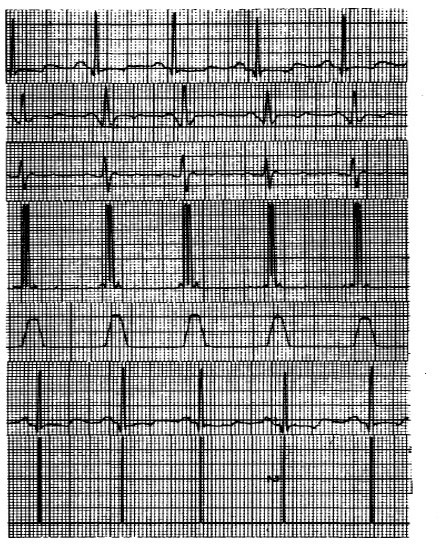
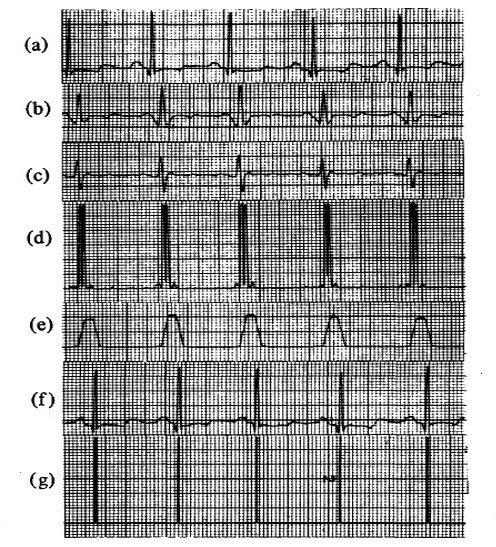
final product

diff --git a/analysisweb/angular/template/demonstrate.html b/analysisweb/angular/template/demonstrate.html
@@ -6,7 +6,7 @@
 		<div class="demon-page-detail">
 			<div class="row">
 				<div class="col-sm-12 col-md-8 col-lg-8">
-					<p>Pan & Tompkins developed this algorithm. It’s one of technique of the detection of the QRS, T and P waves which based on the slope, amplitude, and width of the signal [2]. It’s separated in two different states, processing, and decision. In processing state, the signal is passed through a block of filters to reduce noise and smoothing the signal and amplifying the QRS slope and width. In decision state, thresholds are applied to the signal in order to remove noise peaks and consider only signal peaks. To detecting the QRS, T and P waves, the algorithm has many processes such as</p>
+					<p>Pan & Tompkins developed this algorithm. It’s one of technique of the detection of the QRS, T and P waves which based on the slope, amplitude, and width of the signal. It’s separated in two different states, processing, and decision. In processing state, the signal is passed through a block of filters to reduce noise and smoothing the signal and amplifying the QRS slope and width. In decision state, thresholds are applied to the signal in order to remove noise peaks and consider only signal peaks. To detecting the QRS, T and P waves, the algorithm has many processes follow order below.</p>
 				</div>
 				<div class="col-sm-12 col-md-4 col-lg-4">
 					
@@ -15,16 +15,43 @@
 			<div class="row demon-page-order">
 				<div class="col-sm-12 col-md-4 col-lg-4">
 					<img class="img-responsive" src="images/Picture1.jpg">
+					<ul class="demon-page-explain-img">
+						QRS detection algorithm processing steps for a normal ECG from the MIT/BIH database. 
+						<li>a) Original signal. </li>
+						<li>b) Output of bandpass filter. </li>
+						<li>c) Output of differentiation.</li>
+						<li>d) Output of squaring process.</li>
+						<li>e) Results of moving-window integration.</li>
+						<li>f) the signal delayed by the total processing time.</li>
+						<li>g) Output pulse stream.</li>
+					</ul>
 				</div>
 				<div class="col-sm-12 col-md-8 col-lg-8">
 					<ul>
-						<li>Bandpass Filter – It’s the process to reduce noise in the signal.</li>
-						<li>Derivative – This process used for amplifying the QRS slope which use Transfer Function technique.</li>
-						<li>Squaring Function</li>
-						<li>Moving-Window Integration – It’s the process that used for detecting slope of R peak which has to determine window size. From the references of Pan & Tompkins research, the window size is 150 milliseconds.
+						<li><span class="green font-bold">Bandpass Filter</span> – It’s the process to reduce noise in the signal. The desirable passband to maximize the QRS energy is approximately 5-15 Hz. For our chosen sample rate, we could not design a bandpass filter directly for the desired passband of 5-15 Hz using this specialized design technique. Therefore, we cascaded the low-pass and high-pass filters described below to achieve a 3dB passband from about 5-12 Hz, reasonably close to the design goal.
+							<ul class="demon-page-sub-list">
+								<li>Low-Pass Filter 
+									<br>The difference equation of the filter is 
+										<p>y(nT) = 2y(nT - T) - y(nT - 2 T) + x(nT) - 2x(nT- 6T)+x(nT- 12T)</p>
+										where T is the sampling period and the cutoff frequency is about 11 Hz and the gain is 36. The filter processing delay is six samples.
+								</li>
+								<li>High-Pass Filter
+									<br>The difference equation is
+									<p>y(nT) = 32x(nT - 16 T) - [y(nT - T) + x(nT) - x(nT - 32 T)]</p>
+									The low cutoff frequency of this filter is about 5 Hz, the gain is 32, and the delay is 16 samples.
+								</li>
+							</ul>
 						</li>
-						<li>Adjusting the Threshold – It’s the process to find R peak by looking the reverse signal. The algorithm has min and max threshold to decision where is the R peak or just noise. Then applying thresholds for using it again with next R peak.</li>
-						<li>Decision – When the process know the position of R peak, it can find Heart rate and use that data to analyze arrhythmias.</li>
+						<li><span class="green font-bold">Derivative</span> – This process used for amplifying the QRS slope which use Transfer Function technique. We use a five-point derivative with the difference equation is
+							<p class="demon-page-sub-equation">y(nT) = (1/8 T) [-x(nT - 2 T) - 2x(nT - T) + 2x(nT + T) +x(nT+ 2T)]</p>
+						</li>
+						<li><span class="green font-bold">Squaring Function</span> - After differentiation, the signal is squared point by point.</li>
+						<li><span class="green font-bold">Moving-Window Integration</span> – It’s the process that used for detecting slope of R peak which has to determine window size. It is calculated from
+							<p class="demon-page-sub-equation">y(nT) = (1/N) [x(nT- (N - 1) T) +x(nT- (N - 2) T) + ... + x(nT)]</p>
+							Where N is the number of samples in the width of the integration window. From the references of Pan & Tompkins research, the window size is 150 milliseconds. 
+						</li>
+						<li><span class="green font-bold">Adjusting the Threshold</span> – It’s the process to find R peak by looking the reverse signal. The algorithm has min and max threshold to decision where is the R peak or just noise. Then applying thresholds for using it again with next R peak.</li>
+						<li><span class="green font-bold">Decision</span> – When the process know the position of R peak, it can find Heart rate and use that data to analyze arrhythmias.</li>
 					</ul>
 					<p>
 						Reference: Pan, J. and Tompkins, W., 1985, “A real-time QRS detection algorithm”, IEEE Trans Eng Biomed Eng, 32(3), 230–236

diff --git a/app.js b/app.js
@@ -67,7 +67,8 @@ app.get('/demonstratePan/:filename', asyncWrap(async (request,response) =>{
 	    var diff = panDerivative(hpf);
 	    var movingWindow = panMovingwindowand(diff);
 	    var diff2 = panRisingSlope(movingWindow);
-	    var peak = panthreshold(diff2);
+	    var peak = panthreshold(diff2,'default');
+	    peak.shift();
 	    var jsonfile = [{
 			'original': arrayfile,
 			'bandpass': hpf,
@@ -80,7 +81,8 @@ app.get('/demonstratePan/:filename', asyncWrap(async (request,response) =>{
 	})
 }));
 
-app.get('/drawgraph/:filename', asyncWrap(async (request,response) =>{
+app.get('/drawgraph/:filename/:threshold', asyncWrap(async (request,response) =>{
+	var threshold = request.params.threshold;
 	var file = request.params.filename;
 	var csvFilePath= 'analysisweb/file/' + file;
 	var jsonfile = [];
@@ -93,7 +95,9 @@ app.get('/drawgraph/:filename', asyncWrap(async (request,response) =>{
 		jsonfile =	jsonfile.concat(jsonObj)
 	})
 	.on('done',(error)=>{
-		var result = panAndTompkins(jsonfile);
+		var result = panAndTompkins(jsonfile,threshold);
+		var nowThreshold = result[result.length-1];
+		result.shift();
 		for(var i=0;i<result.length;i++){
 			var test = {
 				'time': jsonfile[i+2].field1,
@@ -102,8 +106,12 @@ app.get('/drawgraph/:filename', asyncWrap(async (request,response) =>{
 			filetest = filetest.concat(test);
 		}
 	    console.log('convert file original end');
+
 	    jsonfile =	jsonfile.concat(filetest);
+	    jsonfile = jsonfile.concat(nowThreshold);
 	    response.json(jsonfile);
+	    // response.json(result);
+
 	})
 }));
 app.get('/compare/:filename', asyncWrap(async (request,response) =>{
@@ -130,7 +138,7 @@ app.listen(4000,function(){
 	console.log('listening on 4000 \n')
 });
 
-function panAndTompkins(jsonfile){
+function panAndTompkins(jsonfile,threshold){
 	var timeseries = [], mlii = [];
     for(var i = 2; i < jsonfile.length; i++){
         timeseries.push(jsonfile[i].field1);
@@ -141,7 +149,7 @@ function panAndTompkins(jsonfile){
     var diff = panDerivative(hpf);
     var movingWindow = panMovingwindowand(diff);
     var diff2 = panRisingSlope(movingWindow);
-    var peak = panthreshold(diff2);
+    var peak = panthreshold(diff2,threshold);
     return peak;
 }
 function panLowPassFilter(x){
@@ -211,25 +219,30 @@ function panRisingSlope(x){
 	}
 	return y;
 }
-function panthreshold(x){
+function panthreshold(x,numThreshold){
 	var y = [];
 	var maxPeak = Math.max.apply(null, x);
 	var noise = averageNumber(x);
-
 	var threshold1 = (1/8)*maxPeak;
-	var threshold2 = (1/2)*threshold1;
-	// var threshold2 = 120;
+	// var y = x;
+
+	if(numThreshold=='default'){
+		var threshold2 = (1/2)*threshold1;
+	}
+	else{
+		var threshold2 = numThreshold;
+	}
+	
 	var skipPoint = false;
 	var count = 1;
 	var sildingWindow = 100;
 	console.log('maxPeak: '+maxPeak);
 	console.log('threshold: '+threshold1 +'   ' + threshold2);
 	for(var k = 0;k<x.length;k++){
-		if(x[k]<threshold2){
+		if(parseFloat(x[k])<threshold2){
 			x[k] = "0.0000";
 		}
 	}
-	console.log('lastx: '+x[x.length-1]);
 	for(var i=0;i<x.length;i++){
 		if(!skipPoint){
 			for(var j=i+1;j<i+sildingWindow-1;j++){
@@ -254,7 +267,7 @@ function panthreshold(x){
 			count++;
 		}
 	}
-	console.log('lasty: '+y[y.length-1]);
+	y.push(threshold2);
 	return y;
 }
 

diff --git a/analysisweb/angular/controller/compareController.js b/analysisweb/angular/controller/compareController.js
@@ -43,25 +43,26 @@ angular.module('app')
 		//get data from node in compare function
 	  	$http({
 	  		method:'GET',
-	  		url:'/drawgraph/'+$routeParams.filename
+	  		url:'/drawgraph/'+$routeParams.filename+'/'+$routeParams.threshold
 	  	}).then(function (success){
 				//stop loading page
 				$scope.loading = false;
 
 				//create dataset by extract from data which send from nodejs
 				var timeseries = [], mlii = [],peak = [],setData = [],checkPeak =[];
-	            for(var i = 2; i <= (success.data.length/2); i++){
+	            for(var i = 2; i <= ((success.data.length-1)/2); i++){
 	                timeseries.push(success.data[i].field1);
 	                mlii.push(success.data[i].field2);
 	            }
-	            for(var j = (success.data.length/2)+1;j < success.data.length;j++ ){
+	            for(var j = ((success.data.length-1)/2)+1;j < success.data.length-1;j++ ){
 	                peak.push(success.data[j].value);
 	                if(success.data[j].value!=0){
 						checkPeak = checkPeak.concat(success.data[j]);
 					}
 	            }
+	            $scope.nowThreshold = success.data[success.data.length-1];
 	            $scope.checkAccuracys = checkPeak;
-
+	            console.log($scope.nowThreshold);
 	            var tempArray = [];
 	            var sum = 0;
 	            var temp = 0;
@@ -106,30 +107,9 @@ angular.module('app')
 						}
 	            	}
 				};
-	   //          var findHeartratePan = function(oldPeak,newPeak){
-				// 	if(oldPeak === 0){
-				// 		$scope.heartratePan = 0;
-				// 		$scope.sinus = '---';
-				// 		$scope.sinusNormal = true;
-				// 	}
-				// 	else{
-				// 		$scope.heartratePan = parseInt(60000/(timestringTotimemilisec(timeseries[newPeak])-timestringTotimemilisec(timeseries[oldPeak])));
-				// 		if($scope.heartratePan<60){
-				// 			$scope.sinus = 'SINUS BRADYCARDIA';
-				// 			$scope.sinusNormal = false;
-				// 		}
-				// 		else if($scope.heartratePan>100){
-				// 			$scope.sinus = 'SINUS TACHYCARDIA';
-				// 			$scope.sinusNormal = false;
-				// 		}
-				// 		else{
-				// 			$scope.sinus = 'NORMAL SINUS RHYTHM';
-				// 			$scope.sinusNormal = true;
-				// 		}
-				// 	}
-				// };
 				
 	            //show filename and time
+	            $scope.recordname = $routeParams.filename;
 	            var stringname = $routeParams.filename.split("-");
 	            $scope.filename = stringname[0];
 	            var stringtime = stringname[1].split(".");

diff --git a/analysisweb/angular/template/home.html b/analysisweb/angular/template/home.html
@@ -1,6 +1,10 @@
 <div class="container-fluid">
 	<div class="row">
-		<div class="col-sm-12 col-md-6 col-lg-6 col-md-offset-1 col-lg-offset-1"></div>
+		<div class="col-sm-12 col-md-6 col-lg-6 col-md-offset-1 col-lg-offset-1">
+			<div class="demon-video">
+				<img src="images/pic1.jpg" class="img-responsive" alt="Responsive image">
+			</div>
+		</div>
 		<div class="col-sm-12 col-md-4 col-lg-4">
 			<div class="text-title demon-text-title">
 				<h2>Demonstrate Algorithm</h2>
@@ -45,7 +49,7 @@ the EEG signals and estimates the heart rate. You can Start to learn the algorit
 			<div class="btn-group" ng-show="times">
 			  	<button type="button" class="btn btn-default dropdown-toggle btn-sm" data-toggle="dropdown" aria-haspopup="true" aria-expanded="false">Select time <span class="caret"></span></button>
 			  	<ul class="dropdown-menu">
-				    <li ng-repeat="time in times"><a ng-href="#!compare/{{time.name}}-{{time.time}}.csv">{{time.time}}:00</a></li>
+				    <li ng-repeat="time in times"><a ng-href="#!compare/{{time.name}}-{{time.time}}.csv/default">{{time.time}}:00</a></li>
 			  	</ul>
 			</div>
 			<div class="input-group-btn">
@@ -89,11 +93,10 @@ the EEG signals and estimates the heart rate. You can Start to learn the algorit
 				Faculty of Engineering<br>
 				Chiang Mai University<br>
 				2016</p>
-				<!-- <p>The web application for analyzing cardiac arrhythmia in the ECG signal data will examine three established/well-known algorithms for extracting heart rate from ECG signal. It will compare these three algorithms in terms of detection performance and detection speed. The detection metrics consist of accuracy, sensitivity, and specificity. It also teaching the junior programmers around to world to learn how these algorithms work. It will be shown as graphics/cartoons gradually how the algorithm extracts the important waveforms in the EEG signals and estimates the heart rate. The web application will allow users to upload their own data into our website to show graphic simulation of ECG signals and corresponding physiological situations.</p> -->
 			</div>
-			<span class="input-group-btn">
+			<!-- <span class="input-group-btn">
 			    <button class="btn btn-default" type="button">Read the document project</button>
-			</span>
+			</span> -->
 		</div>
 	</div>
 </div>

diff --git a/analysisweb/angular/template/compare.html b/analysisweb/angular/template/compare.html
@@ -1,13 +1,20 @@
 <div class="container-fluid">
 	<div ng-show="loading" class="show-graph text-center"><img src="images/loading.gif"></div>
 	<div class="row" style="margin-right: 0px;" ng-hide="loading">
-		<div class="col-sm-12 col-md-6 col-lg-6">
+		<div class="col-sm-12 col-md-4 col-lg-4">
 			<div class="compare-title">
 				Original Graph
 			</div>
 		</div>
-		<div class="col-sm-12 col-md-6 col-lg-6">
+		<div class="col-sm-12 col-md-8 col-lg-8">
 			<div class=" text-right compare-control-btn">
+				<div class="btn-group">
+					Now threshold :
+				</div>
+				<div class="btn-group">
+				  	<input type="text" class="form-control" style="width: 100px;" ng-model="nowThreshold" aria-describedby="basic-addon2">
+				</div>
+				<a class="btn btn-default btn-sm green-bg" ng-href="#!compare/{{recordname}}/{{nowThreshold}}">Change</a>
 				<div class="btn-group">
 				  	<button type="button" class="btn btn-default dropdown-toggle btn-sm" data-toggle="dropdown" aria-haspopup="true" aria-expanded="false">
 				  		<span ng-hide="name">{{filename}}</span>
@@ -21,7 +28,7 @@
 				<div class="btn-group">
 				  	<button type="button" class="btn btn-default dropdown-toggle btn-sm" data-toggle="dropdown" aria-haspopup="true" aria-expanded="false">{{recordtime}}:00 <span class="caret"></span></button>
 				  	<ul class="dropdown-menu">
-					    <li ng-repeat="time in times"><a ng-href="#!compare/{{time.name}}-{{time.time}}.csv">{{time.time}}:00</a></li>
+					    <li ng-repeat="time in times"><a ng-href="#!compare/{{time.name}}-{{time.time}}.csv/default">{{time.time}}:00</a></li>
 				  	</ul>
 				</div>
 				<button type="button" class="btn btn-default btn-sm" data-ng-click="playGraph()">

diff --git a/analysisweb/css/style.css b/analysisweb/css/style.css
@@ -1,6 +1,11 @@
 body{
 	font-family: roboto;
 }
+.font-bold{
+	font-weight: bolder;
+	font-size: 18px;
+	font-style: italic;
+}
 .red{
 	color: red!important;
 }
@@ -36,7 +41,7 @@ body{
 	font-family: roboto;
 }
 .demon-text-title{
-	margin-top: 150px;
+	margin-top: 130px;
 	margin-bottom: 20px;
 }
 .demon-text-body{
@@ -47,10 +52,9 @@ body{
 	display: inline-block;
 	font-family: roboto;
 }
-/*.select-Algorithm a:hover{
-	color:#b5b5b5;
-}*/
-
+.demon-video{
+	padding: 50px 50px 50px 50px;
+}
 .demon-algorithm{
 	background-color: #fff;
 	width: 150px;
@@ -201,11 +205,12 @@ body{
 .demon-page-order p{
 	text-align: justify;
 	font-size: 12px;
-	padding-top: 50px;
+	padding-top: 10px;
+	padding-bottom: 5px;
 	color: #000;
 }
 .demon-page-order ul{
-	padding-top: 30px;
+	padding-top: 10px;
 	line-height: 28px;
 	color: #757575;
 	text-align: justify;
@@ -250,6 +255,16 @@ body{
 }
 .demon-page-chackbox-btn label{
 	margin: 0px 10px 0px 10px;
+}
+.demon-page-sub-list{
+	padding-top: 0px!important;
+}
+.demon-page-sub-list p,.demon-page-sub-equation{
+	font-weight: bold;
+}
+.demon-page-explain-img{
+	list-style: none;
+	font-size: 12px;
 }
 @media (min-width: 768px){
 	body { 

diff --git a/analysisweb/angular/angular.js b/analysisweb/angular/angular.js
@@ -5,7 +5,7 @@ app.config(['$routeProvider','$httpProvider' ,function ($routeProvider,$httpProv
 			templateUrl:'angular/template/home.html',
 			controller: 'homeController'
 		})
-		.when('/compare/:filename',{
+		.when('/compare/:filename/:threshold',{
 			templateUrl:'angular/template/compare.html',
 			controller: 'compareController'
 		})
